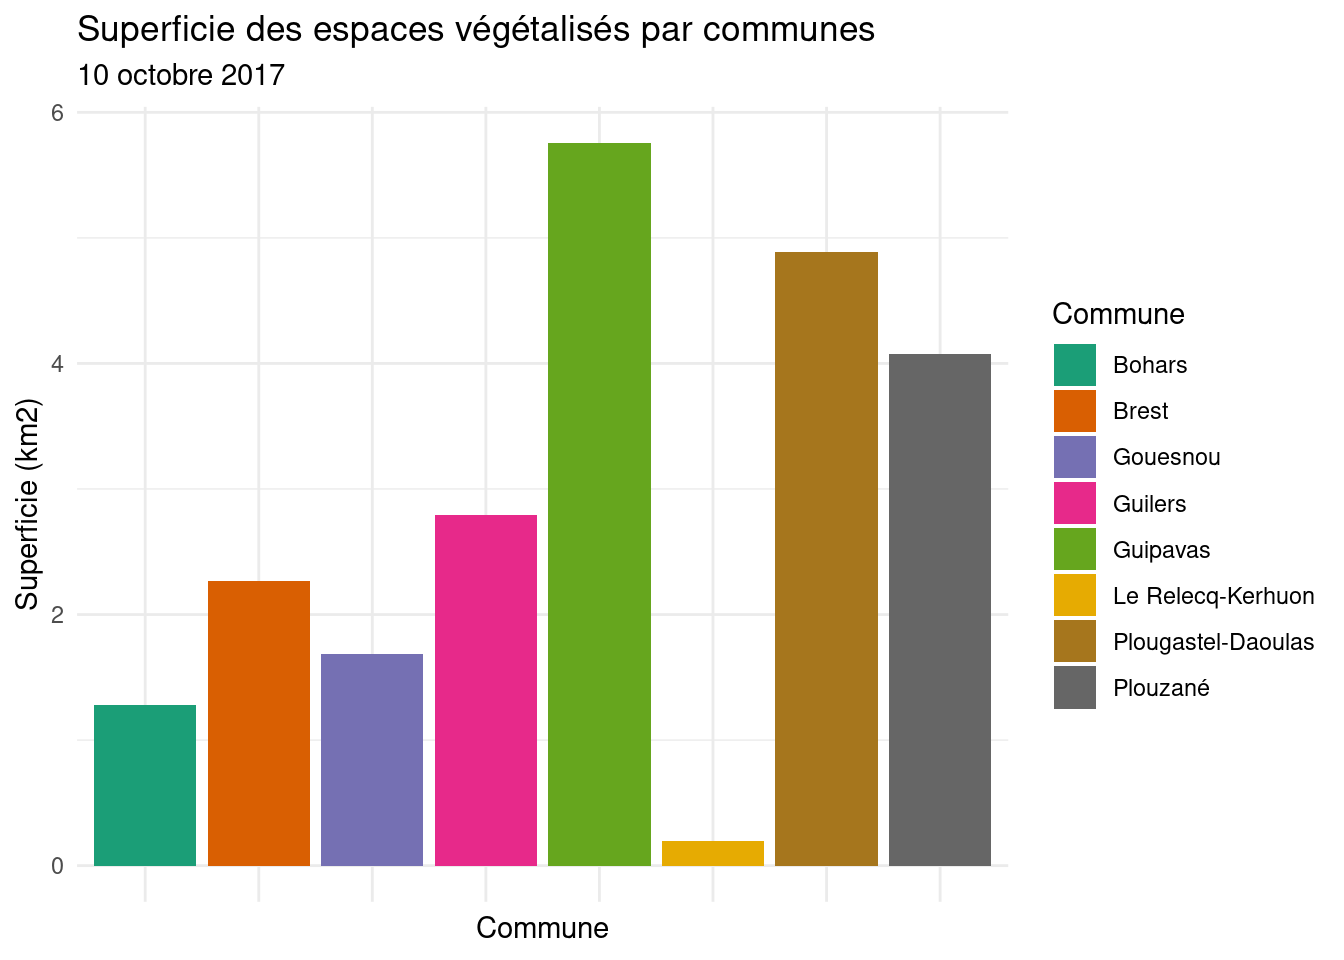
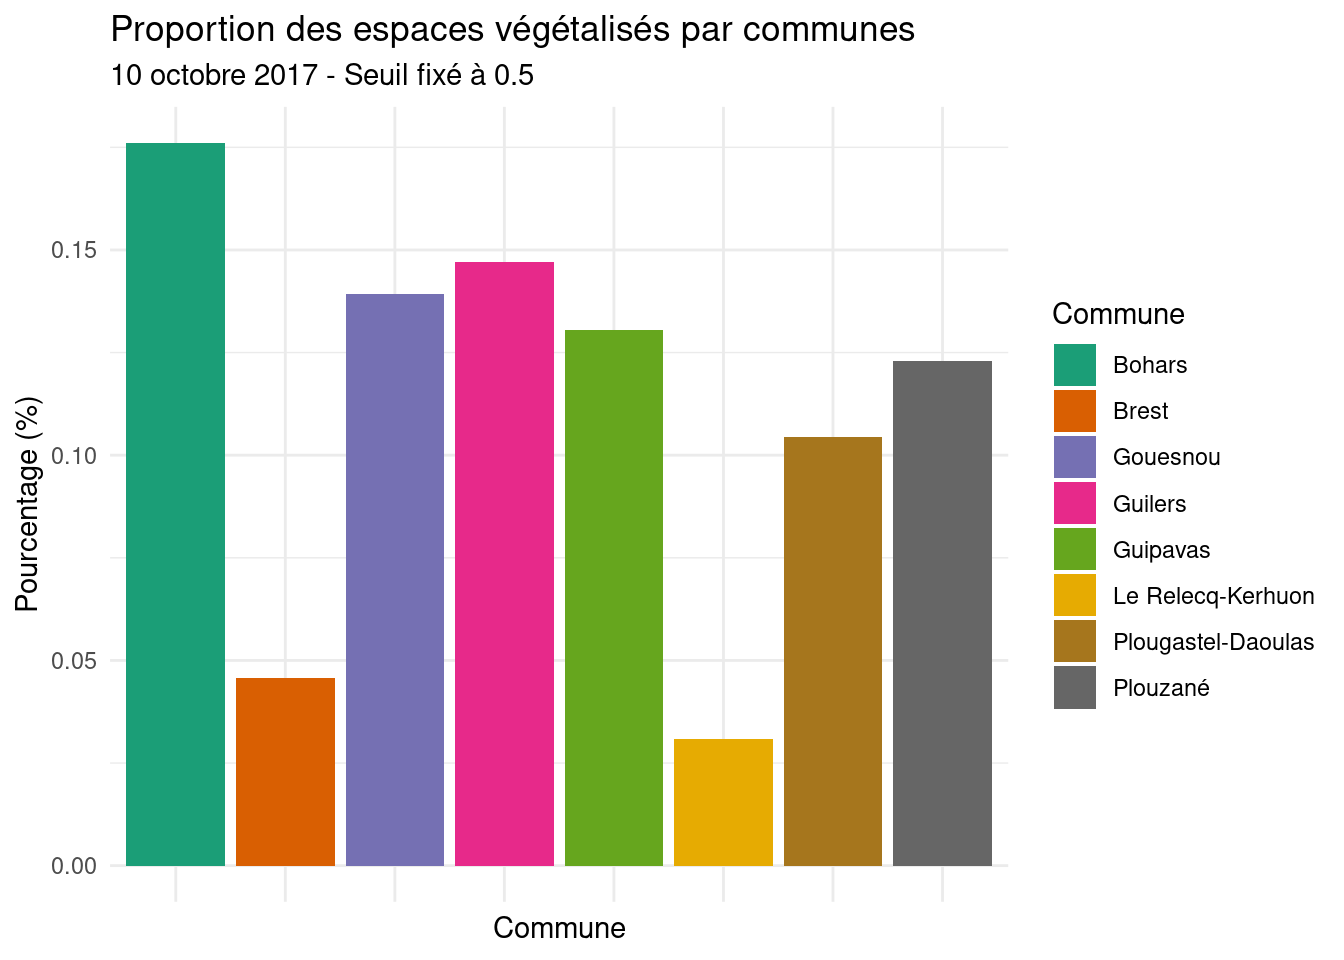
change exo 2

diff --git a/td_2.html b/td_2.html
@@ -614,7 +614,7 @@ Bande spectrale n°10 - Infrarouge à grande longueur d’onde
 </div>
 <div id="exercice-n2" class="section level1">
 <h1>9 - Exercice n°2 📊</h1>
-<p>❓ Vous devez calculer la superficie des espaces verts au cours de l’année 2017 et les 8 communes de la zone d’étude.</p>
+<p>❓ Vous devez calculer la proportion d’espaces verts pout le mois d’octobre et les 8 communes de la zone d’étude.</p>
 <p>1 - Tout d’abord, vous devez ajouter le shapefile <em>“communes_brest.shp”</em> dans votre projet QGIS.</p>
 <div class="figure">
 <img src="images/td2_ndvi_commune.png" alt="" />
